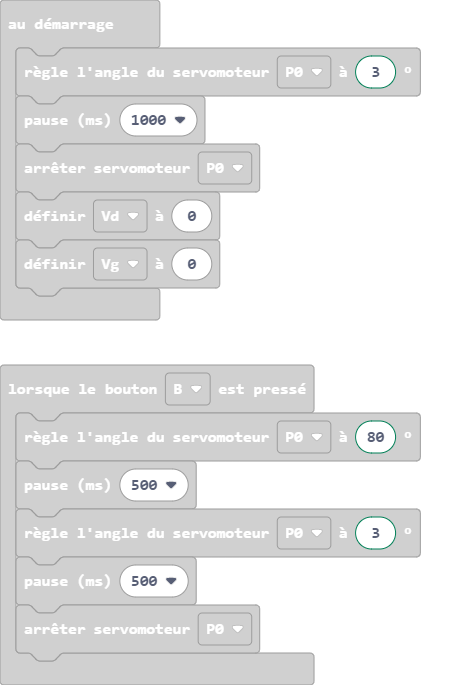
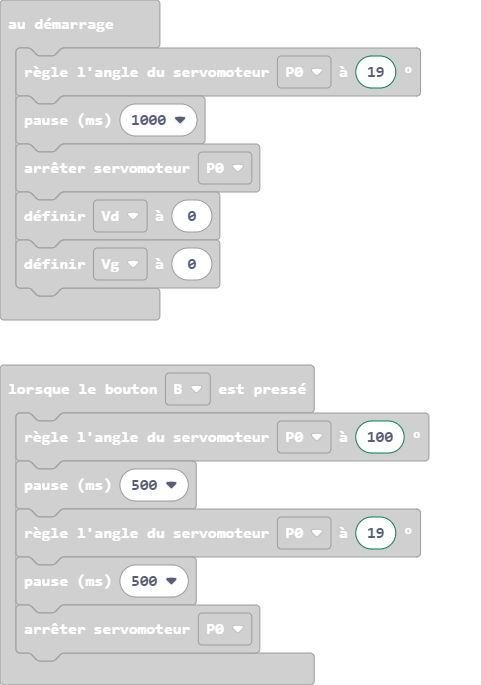
Mise à jour main.blocks, main.ts

diff --git a/main.ts b/main.ts
@@ -22,15 +22,15 @@ input.onButtonPressed(Button.AB, function () {
     pins.digitalWritePin(DigitalPin.P15, 0)
 })
 input.onButtonPressed(Button.B, function () {
-    servos.P0.setAngle(80)
+    servos.P0.setAngle(100)
     basic.pause(500)
-    servos.P0.setAngle(3)
+    servos.P0.setAngle(19)
     basic.pause(500)
     servos.P0.stop()
 })
 let Vg = 0
 let Vd = 0
-servos.P0.setAngle(3)
+servos.P0.setAngle(19)
 basic.pause(1000)
 servos.P0.stop()
 Vd = 0
